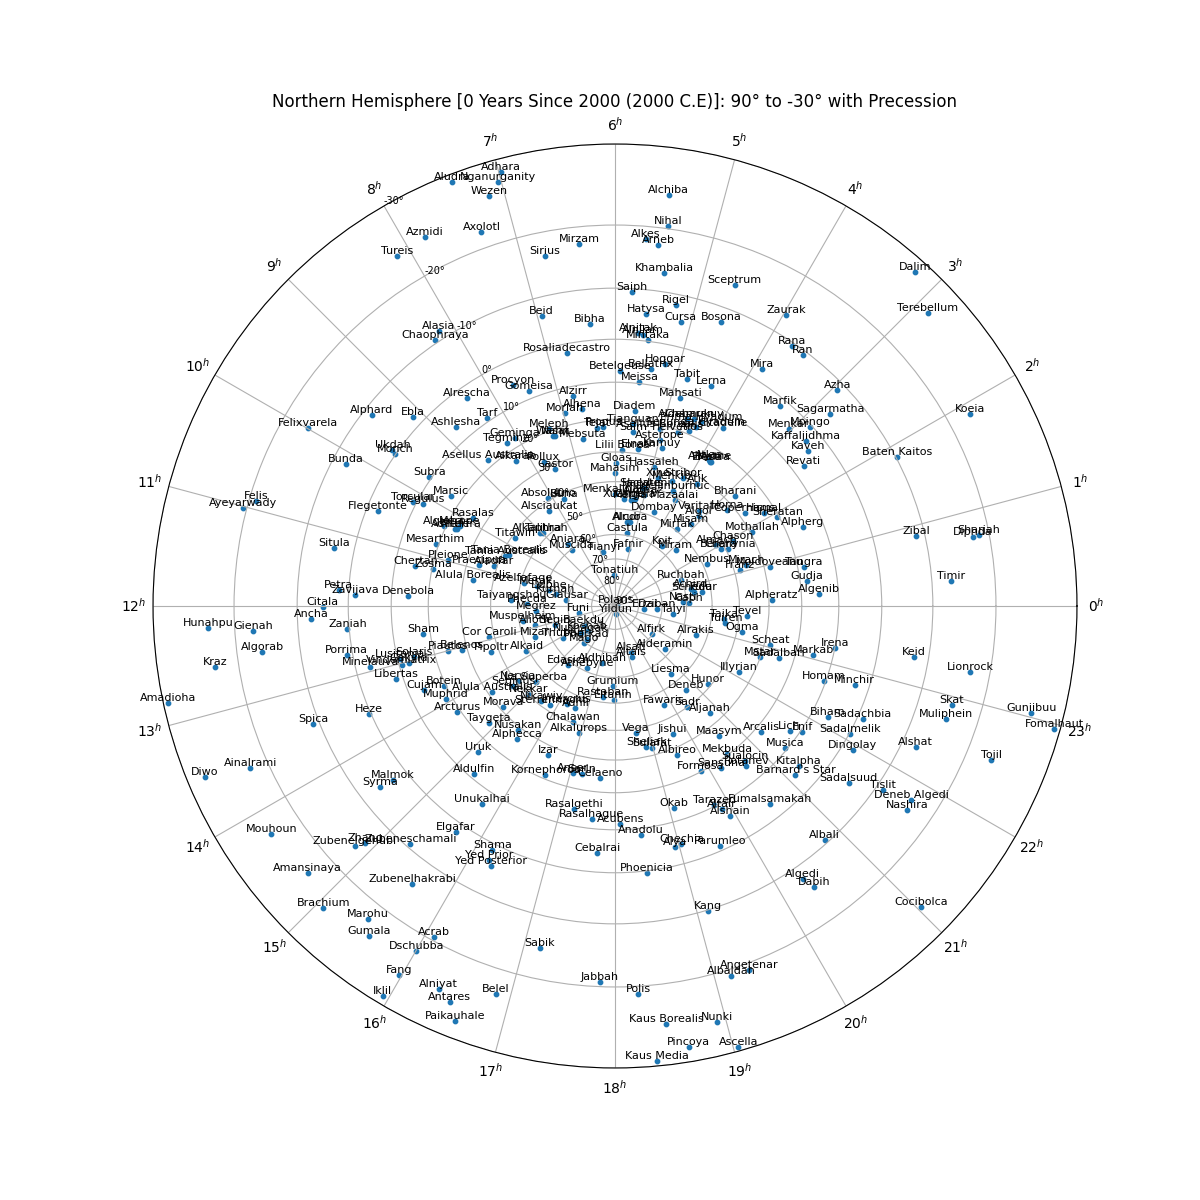
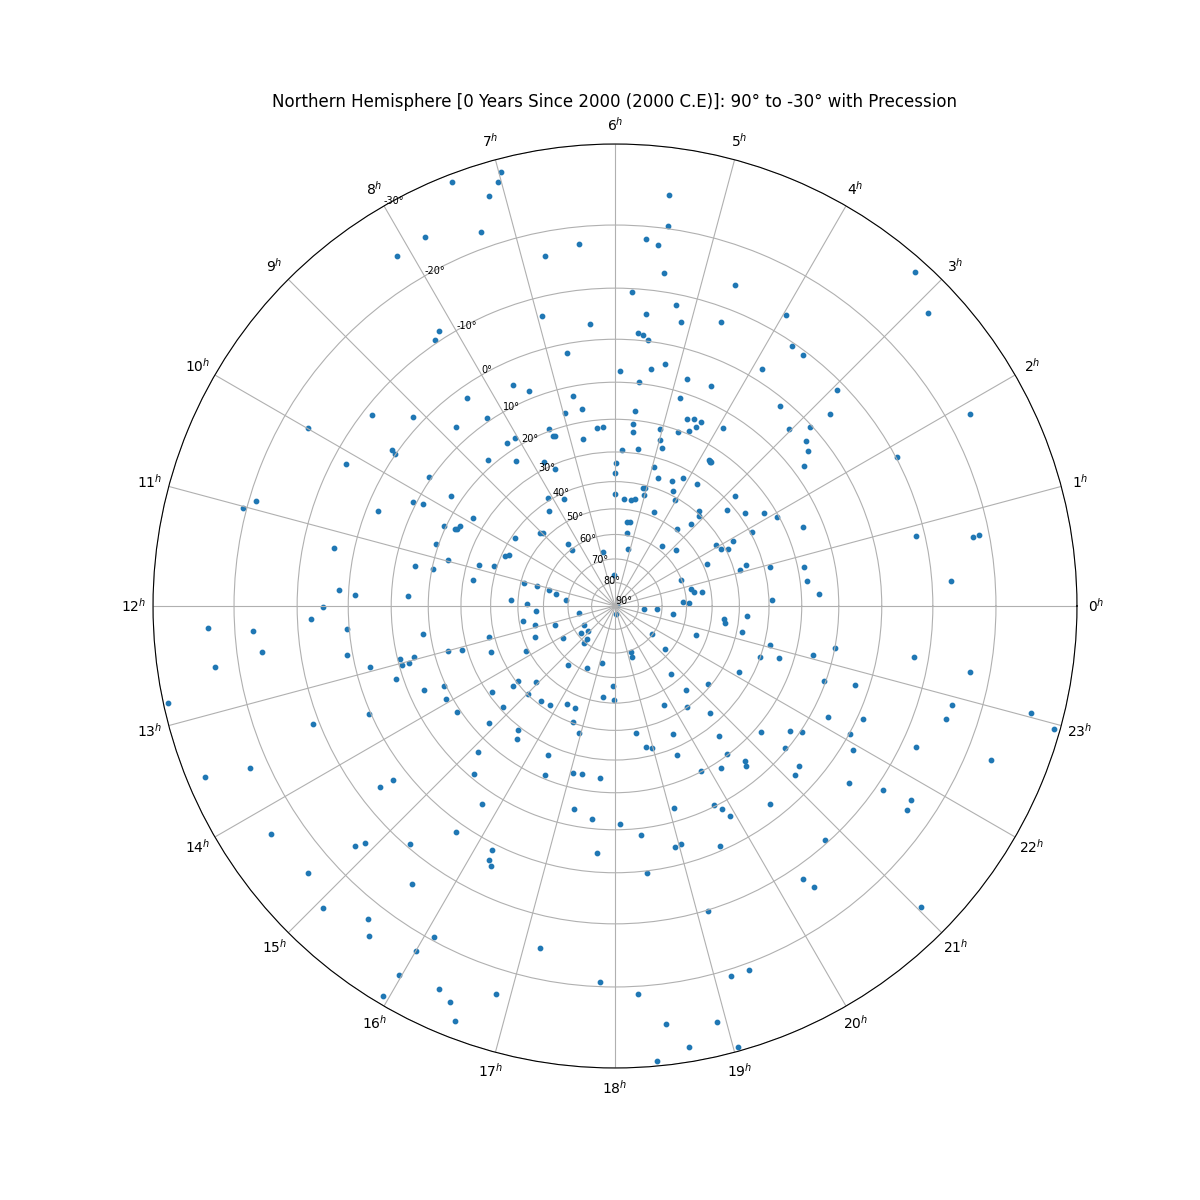
remove star labels from yearSince2000 example

diff --git a/generate_examples_star_chart.py b/generate_examples_star_chart.py
@@ -113,10 +113,12 @@ if __name__ == '__main__':
 	star_chart_spherical_projection.plot_stereographic_projection(northOrSouth="North",
 																yearSince2000=0,
 																showPlot=show_plot,
+																displayStarNamesLabels=False,
 																save_plot_name="examples/yearSince2000_default.png")
 	star_chart_spherical_projection.plot_stereographic_projection(northOrSouth="North",
 																yearSince2000=-3100,
 																showPlot=show_plot,
+																displayStarNamesLabels=False,
 																save_plot_name="examples/yearSince2000_negative_3100.png")
 	# displayStarNamesLabels
 	star_chart_spherical_projection.plot_stereographic_projection(northOrSouth="North",

diff --git a/README.md b/README.md
@@ -239,11 +239,11 @@ plot_stereographic_projection(northOrSouth=None,
 | ------------- | ------------- |
 | ![builtInStars+png](https://raw.githubusercontent.com/cyschneck/Star-Chart-Spherical-Projection/main/examples/builtInStars_default.png) | ![builtInStars+png](https://raw.githubusercontent.com/cyschneck/Star-Chart-Spherical-Projection/main/examples/builtInStars_subset.png) |
 
-| declination_min=-30° (default) (whtout star labels) | declination_min=10° (without star labels) |
+| declination_min=-30° (default) (without star labels) | declination_min=10° (without star labels) |
 | ------------- | ------------- |
 | ![declination_min+png](https://raw.githubusercontent.com/cyschneck/Star-Chart-Spherical-Projection/main/examples/declination_min_default.png) | ![declination_min+png](https://raw.githubusercontent.com/cyschneck/Star-Chart-Spherical-Projection/main/examples/declination_min_10.png) |
 
-| yearSince2000=0 (default) | yearSince2000=-3100 |
+| yearSince2000=0 (default) (without star labels) | yearSince2000=-3100 (without star labels) |
 | ------------- | ------------- |
 | ![declination_min+png](https://raw.githubusercontent.com/cyschneck/Star-Chart-Spherical-Projection/main/examples/yearSince2000_default.png) | ![declination_min+png](https://raw.githubusercontent.com/cyschneck/Star-Chart-Spherical-Projection/main/examples/yearSince2000_negative_3100.png) |
 
